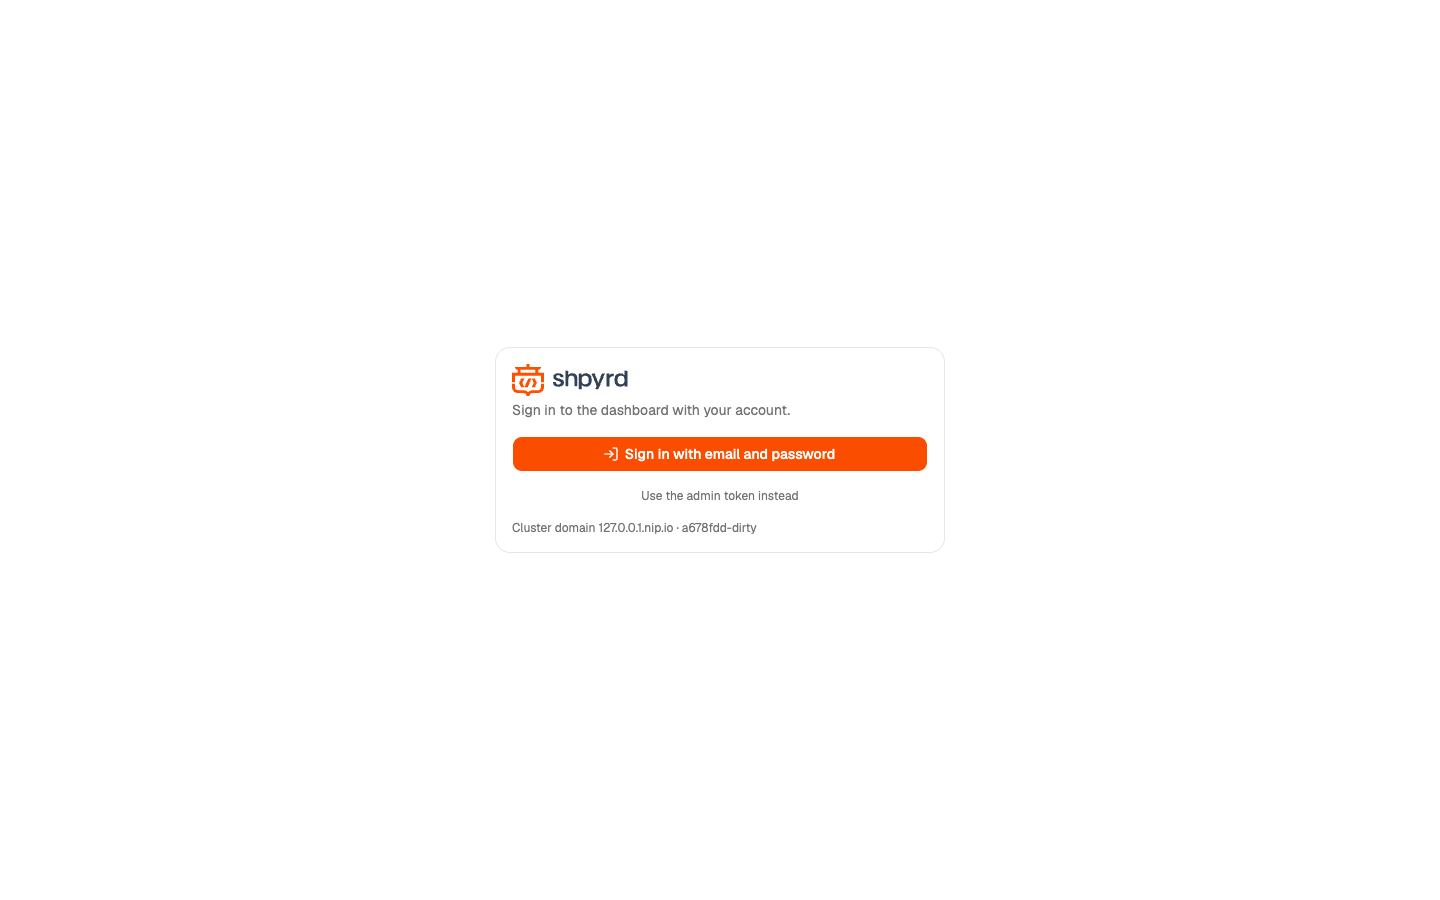
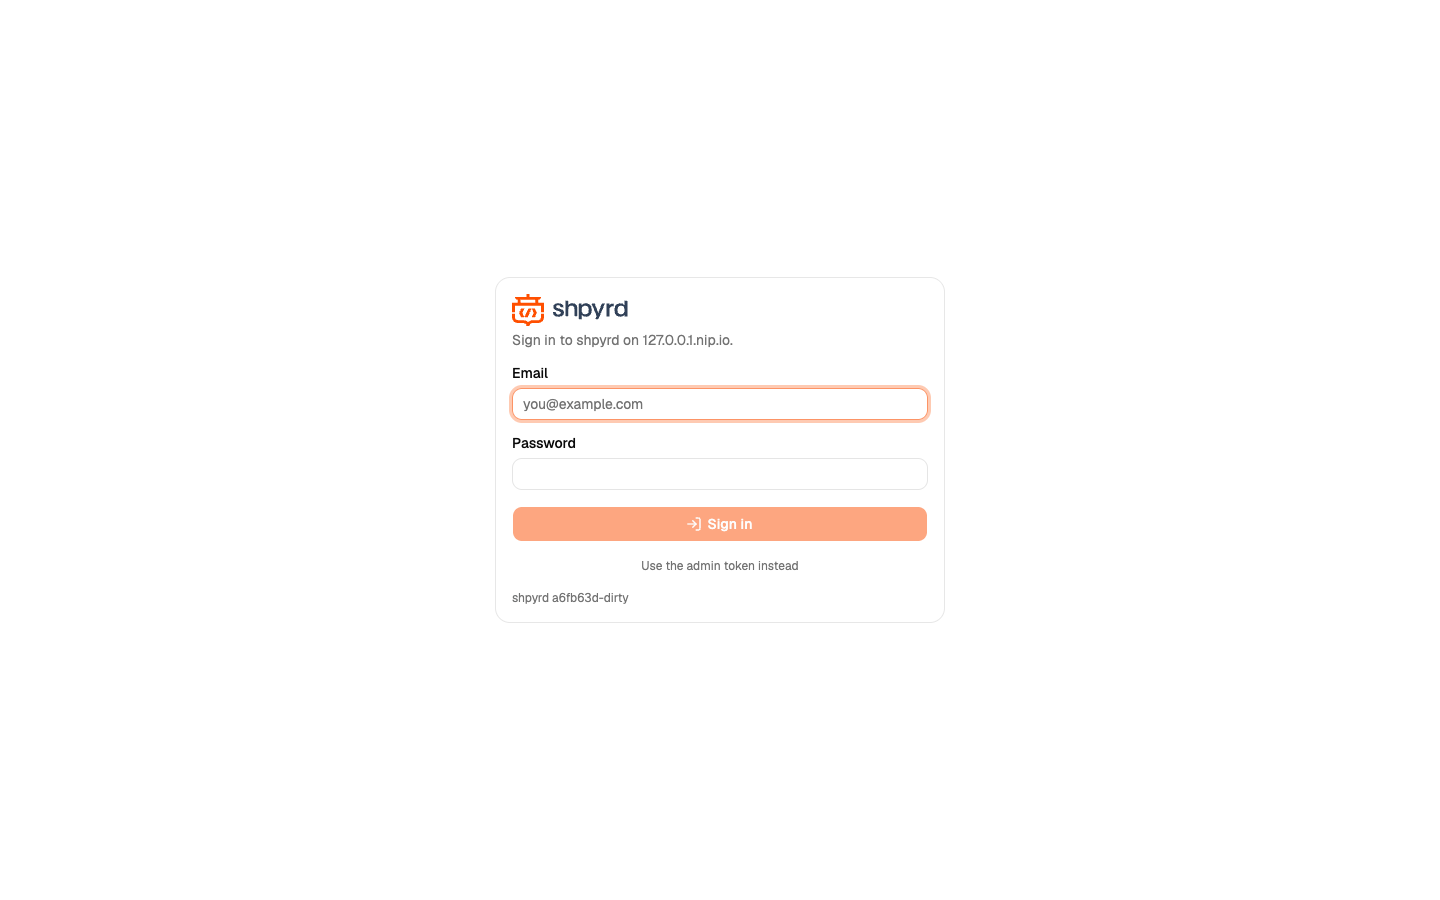
docs: sign-in on shpyrd's own page (RFC-0012)

Changed region(s): [[0.3438, 0.3111, 0.6562, 0.6533], [0.3438, 0.6533, 0.4375, 0.6844]]

diff --git a/src/pages/docs/extensions.md b/src/pages/docs/extensions.md
@@ -34,14 +34,14 @@ shpyrd users passwd ada@example.com
 shpyrd users rm ada@example.com
 ```
 
-The login page then offers **Sign in with email and password** next to the token. Signed-in users see who they are in the header and can sign out; a **Users** page lets platform admins add, reset and remove accounts (the same operations as the CLI). What each account may do is decided by [teams and roles](/docs/access).
+The sign-in page then asks for email and password directly (the admin token moves behind a small link, and disappears once you disable it). A wrong password is shown in place; ten wrong passwords in a minute for one account are refused before they reach the issuer, and every attempt is in the audit trail. Signed-in users see who they are in the header and can sign out; a **Users** page lets platform admins add, reset and remove accounts (the same operations as the CLI). What each account may do is decided by [teams and roles](/docs/access).
 
 ### How it works
 
 - The extension installs [Dex](https://dexidp.io), an OpenID Connect issuer, at `https://auth.<domain>` with a certificate from the cluster issuer. Accounts are Dex objects in the cluster (bcrypt hashes), so they survive restarts, upgrades and even disabling the extension.
-- The shpyrd server is an OpenID Connect relying party: authorization code flow with PKCE, an HttpOnly session cookie, a CSRF token on every change, sessions that expire after 12 hours idle or 7 days. Because the relying party is generic, a company identity provider (Okta, Google, GitHub through Dex) is configuration, not code ([RFC-0007](https://github.com/shpyrd-io/shpyrd/blob/main/rfcs/0007-authentication.md)).
+- The shpyrd server is an OpenID Connect relying party. Email and password never leave shpyrd's own page: the server exchanges them with Dex server to server (the OAuth2 password grant) and verifies the resulting identity token exactly as it would after a redirect ([RFC-0012](https://github.com/shpyrd-io/shpyrd/blob/main/rfcs/0012-sign-in-experience.md)). External providers use the authorization code flow with PKCE. Either way: an HttpOnly session cookie, a CSRF token on every change, sessions that expire after 12 hours idle or 7 days, and sign-out that also ends the session at issuers that support it. A company identity provider (Okta, Google, GitHub through Dex) is configuration, not code ([RFC-0058](https://github.com/shpyrd-io/shpyrd/blob/main/rfcs/0058-external-identity-providers.md), next).
 - The CLI keeps using your kubeconfig; cluster operations are not affected by dashboard accounts.
 
 {% callout title="Local cluster note" %}
-The kind cluster serves `auth.127.0.0.1.nip.io` with the development CA, so run `shpyrd cluster trust-ca` once or your browser will warn on the Dex login page. On other hosts, `shpyrd cluster init --domain` decides the hostname.
+The kind cluster serves `auth.127.0.0.1.nip.io` with the development CA, so run `shpyrd cluster trust-ca` once or the server will not trust the issuer. On other hosts, `shpyrd cluster init --domain` decides the hostname.
 {% /callout %}

diff --git a/src/pages/docs/roadmap.md b/src/pages/docs/roadmap.md
@@ -70,7 +70,7 @@ Every line of the roadmap is an RFC in the [shpyrd repository](https://github.co
 | --- | --- | --- |
 | Sign-in with accounts (Dex, local users) | [RFC-0007](https://github.com/shpyrd-io/shpyrd/blob/main/rfcs/0007-authentication.md) | done |
 | Teams, roles, RBAC mirror, isolation, audit | [RFC-0008](https://github.com/shpyrd-io/shpyrd/blob/main/rfcs/0008-teams-roles-and-security.md) | done |
-| Sign-in experience: shpyrd's own sign-in page, local sign-in, sign-out at the issuer | [RFC-0012](https://github.com/shpyrd-io/shpyrd/blob/main/rfcs/0012-sign-in-experience.md) | ready to implement |
+| Sign-in experience: shpyrd's own sign-in page, local sign-in, sign-out at the issuer | [RFC-0012](https://github.com/shpyrd-io/shpyrd/blob/main/rfcs/0012-sign-in-experience.md) | done |
 | External identity providers: Okta and any OIDC issuer, GitHub and Google | [RFC-0058](https://github.com/shpyrd-io/shpyrd/blob/main/rfcs/0058-external-identity-providers.md) | ready to implement |
 | Email delivery | [RFC-0013](https://github.com/shpyrd-io/shpyrd/blob/main/rfcs/0013-email-delivery.md) | proposal |
 | Account lifecycle: invitations, reset, verification, lockout | [RFC-0014](https://github.com/shpyrd-io/shpyrd/blob/main/rfcs/0014-account-lifecycle.md) | proposal |

diff --git a/src/pages/docs/dashboard.md b/src/pages/docs/dashboard.md
@@ -7,7 +7,7 @@ The dashboard is served by the shpyrd server inside the cluster at `https://shpy
 
 ## Signing in
 
-`shpyrd cluster dashboard` opens the dashboard signed in with the admin token; the login page also accepts the token pasted by hand (`shpyrd cluster token`). With the `auth-local` extension enabled, the login page offers **Sign in with email and password** for accounts created with `shpyrd users add` or on the **Users** page; the header shows who is signed in and has a sign-out entry. See [Extensions and sign-in](/docs/extensions).
+`shpyrd cluster dashboard` opens the dashboard signed in with the admin token; the login page also accepts the token pasted by hand (`shpyrd cluster token`). With the `auth-local` extension enabled, the login page asks for the email and password of accounts created with `shpyrd users add` or on the **Users** page; the header shows who is signed in and has a sign-out entry. See [Extensions and sign-in](/docs/extensions).
 
 ## Projects
 

diff --git a/src/pages/docs/tour.md b/src/pages/docs/tour.md
@@ -9,7 +9,7 @@ Screenshots from a local kind cluster running the three sample projects in `exam
 
 ![Login page](/screenshots/login.png)
 
-With the `auth-local` extension enabled, people sign in with their own email and password; the admin token is still accepted for automation and can be switched off. `shpyrd cluster dashboard` opens the dashboard signed in as you through a one-time link, so the token never reaches the browser.
+With the `auth-local` extension enabled, people sign in with their own email and password on this page, never on a third-party screen; a wrong password is shown right here. The admin token is still accepted for automation, sits behind a small link, and can be switched off. `shpyrd cluster dashboard` opens the dashboard signed in as you through a one-time link, so the token never reaches the browser.
 
 ## Projects
 
